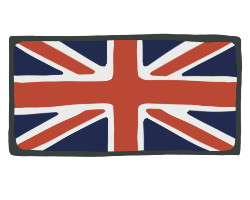
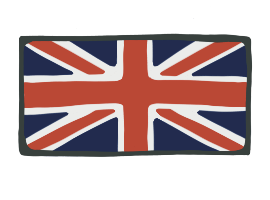
bugfixes

diff --git a/app/assets/stylesheets/pages/mobile/about.scss b/app/assets/stylesheets/pages/mobile/about.scss
@@ -16,3 +16,16 @@
 .about-photo-mobile {
   height: 30vh;
 }
+
+.about-footer-mobile {
+  width: 100%;
+  position: absolute;
+  z-index: -1;
+  transform: scaleX(-1);
+}
+
+
+.about-title-mobile {
+  width: 100%;
+  margin-bottom: 2vh;
+}

diff --git a/app/assets/stylesheets/pages/about.scss b/app/assets/stylesheets/pages/about.scss
@@ -84,3 +84,7 @@
   position: absolute;
   bottom: -50%;
 }
+
+.about-title {
+  height: 15vh;
+}
